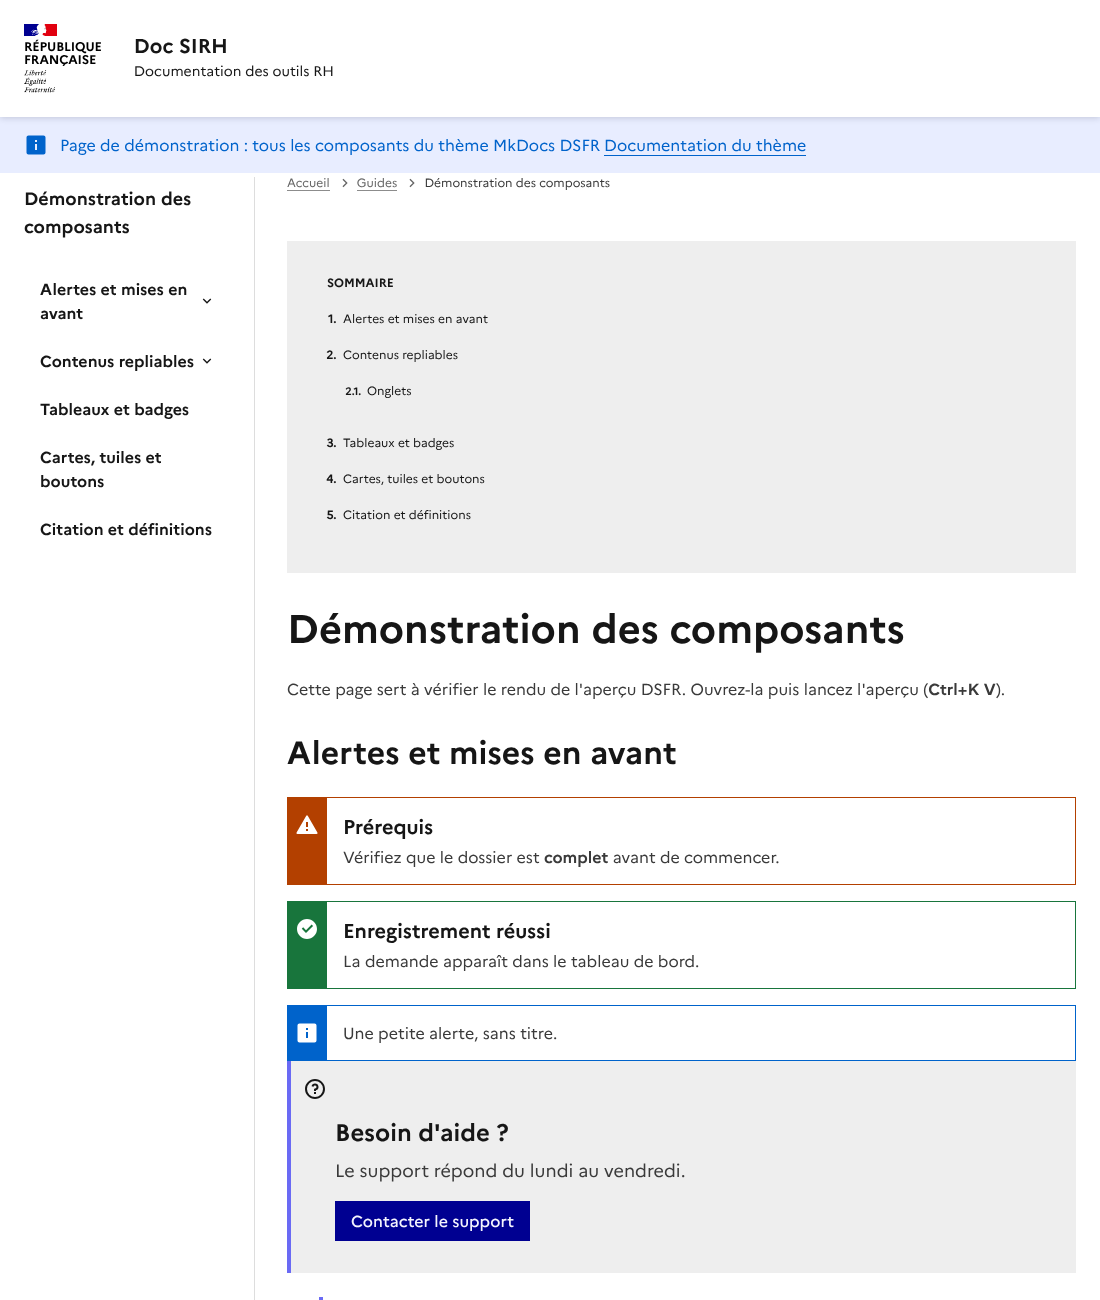
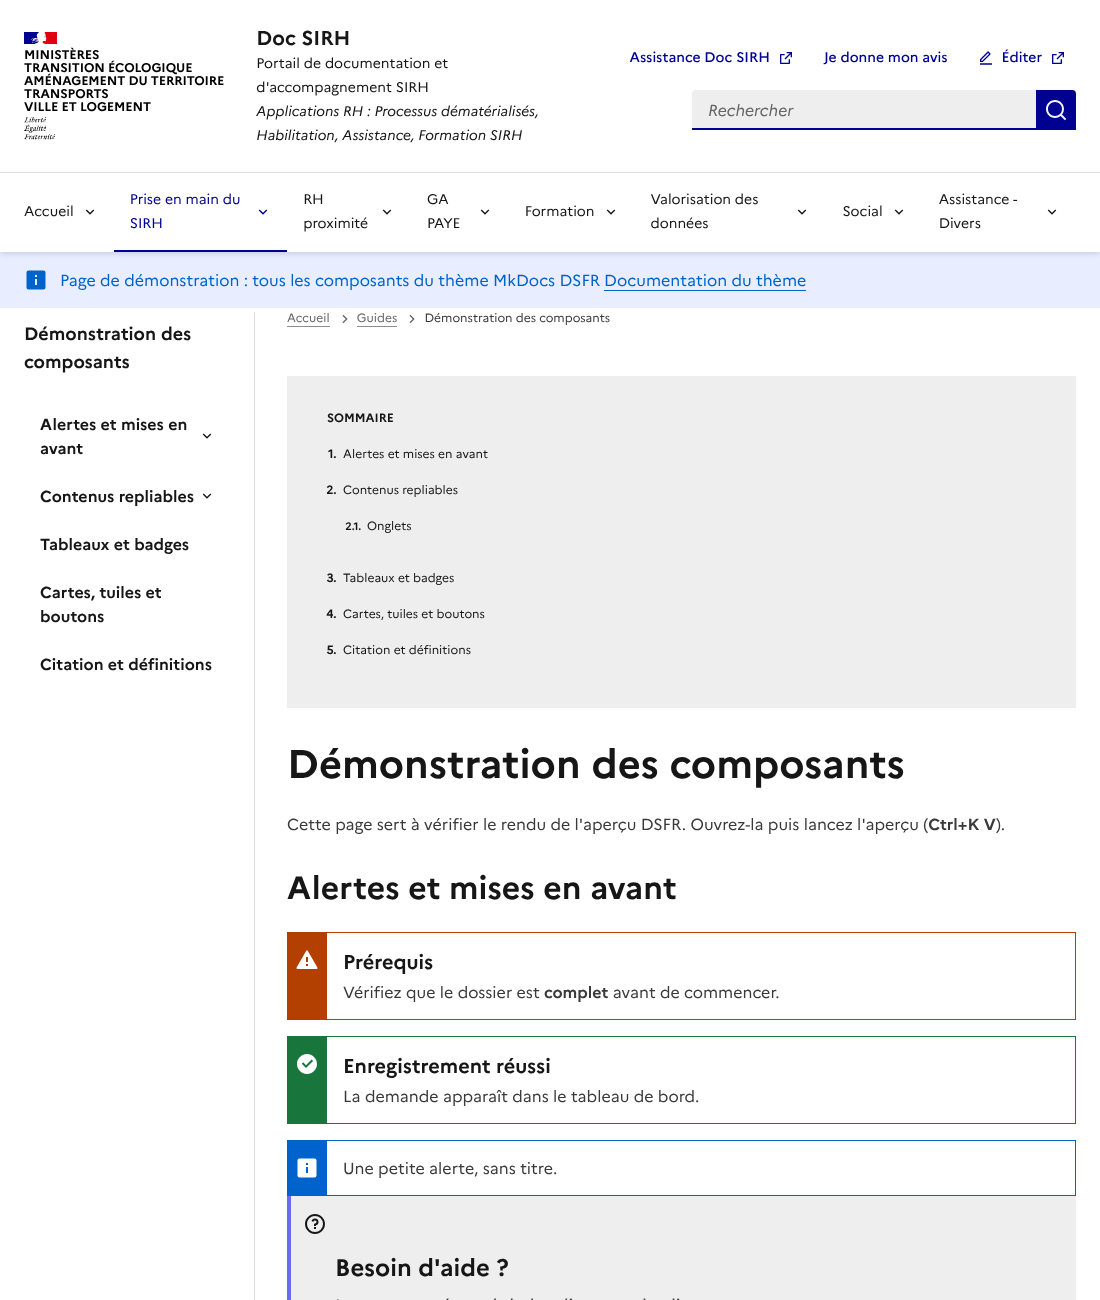
0.10.0 : en-tête, menu et pied de page de Doc SIRH ; fermeture de ligne placée après le bloc
- Sans mkdocs.yml, l'aperçu reprend le cadre réel de Doc SIRH (bloc-marque des ministères, liens,
  recherche, rubriques avec celle de la page en évidence, pied de page)
- Bloc-marque non rogné quand le sous-titre est long
- Correction « ligne de cartes non fermée » : /// ajouté juste après la dernière fermeture (page Estève)

Claude-Session: https://claude.ai/code/session_01LFbTZ262hbqy1z2JrLVRAL

diff --git a/lib/site-frame.js b/lib/site-frame.js
@@ -23,8 +23,11 @@ const { esc } = require('./html');
  * @typedef {object} SiteConfig
  * @property {string} intitule        bloc-marque (« République<br>française ») : seules les balises <br> sont gardées
  * @property {string} titre           titre du site dans l'en-tête
- * @property {string} sousTitre       sous-titre (tagline)
- * @property {{name: string, url: string, icon?: string}[]} headerLinks
+ * @property {string} sousTitre       sous-titre (tagline) : balises <br>, <i> et <em> gardées
+ * @property {{name: string, url: string, icon?: string, external?: boolean}[]} headerLinks
+ * @property {boolean} search         barre de recherche dans l'en-tête
+ * @property {string[]} nav           rubriques du menu principal (sous l'en-tête)
+ * @property {string} path            chemin de la page : la rubrique qui y figure est mise en évidence
  * @property {boolean} editButton     bouton « Éditer » dans l'en-tête
  * @property {string} editLabel
  * @property {boolean} lateral        menu latéral (afficher_menu_lateral, ou « sidemenu: » dans l'en-tête de la page)
@@ -42,6 +45,33 @@ const DEFAULT_FOOTER_LINKS = [
   { name: 'data.gouv.fr', url: 'https://www.data.gouv.fr/' },
 ];
 
+/**
+ * Doc SIRH : en-tête, menu et pied de page du site (relevés sur le site en octobre 2026). Utilisés quand
+ * le mkdocs.yml du site n'est pas dans le dossier ouvert ; bloc-marque, titre et sous-titre restent réglables.
+ */
+const DOC_SIRH = {
+  intitule: 'Ministères<br>Transition écologique<br>Aménagement du territoire<br>Transports<br>Ville et logement',
+  titre: 'Doc SIRH',
+  sousTitre: 'Portail de documentation et d\'accompagnement SIRH<br><i>Applications RH : Processus dématérialisés, Habilitation, Assistance, Formation SIRH</i>',
+  headerLinks: [
+    { name: 'Assistance Doc SIRH', url: '#', external: true },
+    { name: 'Je donne mon avis', url: '#' },
+  ],
+  editButton: true,
+  editLabel: 'Éditer',
+  search: true,
+  nav: ['Accueil', 'Prise en main du SIRH', 'RH proximité', 'GA PAYE', 'Formation', 'Valorisation des données', 'Social', 'Assistance - Divers'],
+  footerDescription: 'Ce site est édité par la Direction des Ressources Humaines',
+  footerLinks: [
+    { name: 'Intranet de la DRH', url: '#' },
+    { name: 'Portail Intranet du CISIRH - RenoiRH', url: '#' },
+  ],
+  bottomLinks: [
+    { name: 'Accessibilité : non conforme', url: '#' }, { name: 'Mentions légales', url: '#' }, { name: 'Favoris', url: '#' },
+    { name: 'Liens utiles', url: '#' }, { name: 'Index du site', url: '#' }, { name: 'Webmestre-DSNUMRH', url: '#' },
+  ],
+};
+
 /** Réglages du thème par défaut (mkdocs_theme.yml), complétés par `overrides`. */
 function siteDefaults(overrides) {
   return Object.assign({
@@ -49,6 +79,9 @@ function siteDefaults(overrides) {
     titre: 'Titre',
     sousTitre: 'Sous-titre',
     headerLinks: [],
+    search: true,
+    nav: [],
+    path: '',
     editButton: true,
     editLabel: 'Éditer dans Gitlab Forge',
     lateral: true,
@@ -62,6 +95,9 @@ function siteDefaults(overrides) {
 
 // Bloc-marque : texte échappé, retours à la ligne <br> conservés (comme dans le mkdocs.yml du thème)
 const brand = (s) => esc(String(s || '')).replace(/&lt;br\s*\/?&gt;/gi, '<br>');
+const tagline = (s) => brand(s).replace(/&lt;(\/?)(i|em)&gt;/gi, '<$1$2>');
+// Rubrique et dossier comparés sans accents, casse ni ponctuation (« RH proximité » = « RH-proximite »)
+const norm = (s) => String(s || '').normalize('NFD').replace(/[\u0300-\u036f]/g, '').toLowerCase().replace(/[^a-z0-9]+/g, '');
 const plain = (html) => html.replace(/<[^>]*>/g, '').replace(/&nbsp;/g, ' ').replace(/&quot;/g, '"').replace(/&#39;/g, '\'')
   .replace(/&lt;/g, '<').replace(/&gt;/g, '>').replace(/&amp;/g, '&').replace(/\s+/g, ' ').trim();
 
@@ -115,22 +151,38 @@ function lateralHtml(headings) {
   return out + '</nav>\n</div>\n';
 }
 
-/** En-tête (header.html), sans la recherche ni le menu de navigation du site. */
+/** Menu principal (nav.html) : rubriques du site, sans leurs sous-menus. */
+function navHtml(site) {
+  const items = site.nav || [];
+  if (!items.length) return '';
+  const folders = String(site.path || '').split(/[\\/]/).map(norm);
+  const active = items.find((t) => norm(t) !== norm('Accueil') && folders.includes(norm(t)));
+  return '<div class="fr-header__menu fr-modal">\n<div class="fr-container">\n<nav class="fr-nav navbar-header" role="navigation" aria-label="Menu principal">\n<ul class="fr-nav__list">\n' +
+    items.map((t) => '<li class="fr-nav__item"><button class="fr-nav__btn" aria-expanded="false"' + (t === active ? ' aria-current="true"' : '') + '>' + esc(t) + '</button></li>\n').join('') +
+    '</ul>\n</nav>\n</div>\n</div>\n';
+}
+
+/** En-tête (header.html) : bloc-marque, titre, liens, recherche et menu principal (sans leurs fenêtres). */
 function headerHtml(site, url) {
-  const links = (site.headerLinks || []).map((l) => '<li><a href="' + esc(url(String(l.url || '#'))) + '" class="fr-btn' + (l.icon ? ' fr-icon-' + esc(l.icon) : '') + '">' + esc(l.name) + '</a></li>\n').join('') +
-    (site.editButton ? '<li><a href="#" class="fr-btn fr-icon-edit-line">' + esc(site.editLabel) + '</a></li>\n' : '');
+  const ext = (l) => (l.external ? ' target="_blank" rel="noopener"' : '');
+  const links = (site.headerLinks || []).map((l) => '<li><a href="' + esc(url(String(l.url || '#'))) + '"' + ext(l) + ' class="fr-btn' + (l.icon ? ' fr-icon-' + esc(l.icon) : '') + '">' + esc(l.name) + '</a></li>\n').join('') +
+    (site.editButton ? '<li><a href="#" target="_blank" rel="noopener" class="fr-btn fr-icon-edit-line">' + esc(site.editLabel) + '</a></li>\n' : '');
+  const search = site.search
+    ? '<div class="fr-header__search fr-modal">\n<div class="fr-container fr-container-lg--fluid">\n<div class="fr-search-bar" role="search">\n' +
+      '<label class="fr-label">Rechercher</label>\n<input class="fr-input" placeholder="Rechercher" type="search">\n<button class="fr-btn" title="Rechercher" type="button">Rechercher</button>\n</div>\n</div>\n</div>\n'
+    : '';
   return '<header role="banner" class="fr-header">\n<div class="fr-header__body">\n<div class="fr-container">\n<div class="fr-header__body-row">\n' +
     '<div class="fr-header__brand fr-enlarge-link">\n<div class="fr-header__brand-top">\n<div class="fr-header__logo">\n<p class="fr-logo">' + brand(site.intitule) + '</p>\n</div>\n' +
     '<div class="fr-header__navbar">\n<button class="fr-btn--search fr-btn" title="Rechercher">Rechercher</button>\n<button class="fr-btn--menu fr-btn" title="Menu">Menu</button>\n</div>\n</div>\n' +
     '<div class="fr-header__service">\n<a href="#" title="Retour à l\'accueil du site - ' + esc(site.titre) + '">\n<p class="fr-header__service-title">' + esc(site.titre) + '</p>\n</a>\n' +
-    '<p class="fr-header__service-tagline">' + esc(site.sousTitre) + '</p>\n</div>\n</div>\n' +
-    '<div class="fr-header__tools">\n<div class="fr-header__tools-links">\n<ul class="fr-btns-group">\n' + links + '</ul>\n</div>\n</div>\n' +
-    '</div>\n</div>\n</div>\n</header>\n';
+    '<p class="fr-header__service-tagline">' + tagline(site.sousTitre) + '</p>\n</div>\n</div>\n' +
+    '<div class="fr-header__tools">\n<div class="fr-header__tools-links">\n<ul class="fr-btns-group">\n' + links + '</ul>\n</div>\n' + search + '</div>\n' +
+    '</div>\n</div>\n</div>\n' + navHtml(site) + '</header>\n';
 }
 
 /** Pied de page (footer.html). */
 function footerHtml(site, url) {
-  const links = (site.footerLinks || []).map((l) => '<li class="fr-footer__content-item"><a class="fr-footer__content-link" target="_blank" href="' + esc(url(String(l.url || '#'))) + '">' + esc(l.name) + '</a></li>\n').join('');
+  const links = (site.footerLinks || []).map((l) => '<li class="fr-footer__content-item"><a class="fr-footer__content-link" target="_blank" rel="noopener" href="' + esc(url(String(l.url || '#'))) + '">' + esc(l.name) + '</a></li>\n').join('');
   const bottom = (site.bottomLinks || []).map((l) => '<li class="fr-footer__bottom-item"><a class="fr-footer__bottom-link' + (l.icon ? ' fr-icon-' + esc(l.icon) : '') + '" href="' + esc(url(String(l.url || '#'))) + '">' + esc(l.name) + '</a></li>\n').join('');
   return '<footer class="fr-footer" role="contentinfo" id="footer">\n<div class="fr-container">\n<div class="fr-footer__body">\n' +
     '<div class="fr-footer__brand fr-enlarge-link">\n<a href="#" title="Retour à l\'accueil du site">\n<p class="fr-logo">' + brand(site.intitule) + '</p>\n</a>\n</div>\n' +
@@ -171,4 +223,4 @@ function framePage(p) {
     (p.parts.newsletter || '') + footerHtml(site, url) + '</div>\n';
 }
 
-module.exports = { framePage, siteDefaults, numberHeadings, lateralHtml, DEFAULT_FOOTER_LINKS };
+module.exports = { framePage, siteDefaults, numberHeadings, lateralHtml, DEFAULT_FOOTER_LINKS, DOC_SIRH };

diff --git a/test/site-frame.js b/test/site-frame.js
@@ -60,6 +60,16 @@ assert.deepStrictEqual(numberHeadings('<h2 id="a">A <em>b</em></h2><h5 class="x"
 });
 assert(framePage({ content: '', parts: { breadcrumb: null }, site: {} }).includes('République <br> française'), 'valeurs par défaut du thème');
 
+// Doc SIRH (réglages par défaut sans mkdocs.yml) : en-tête, menu principal, pied de page du site
+const { DOC_SIRH } = require('../lib/site-frame');
+html = render('# T\n', Object.assign({}, DOC_SIRH, { path: '/wiki/docs/RH-proximite/Esteve.md' }));
+assert(html.includes('Ministères<br>Transition écologique<br>Aménagement du territoire<br>Transports<br>Ville et logement'));
+assert(html.includes('<p class="fr-header__service-tagline">Portail de documentation et d\'accompagnement SIRH<br><i>Applications RH'), 'sous-titre en italique');
+assert(html.includes('target="_blank" rel="noopener" class="fr-btn">Assistance Doc SIRH</a>') && html.includes('fr-icon-edit-line">Éditer</a>'));
+assert(html.includes('class="fr-search-bar"') && html.includes('Ce site est édité par la Direction des Ressources Humaines') && html.includes('Webmestre-DSNUMRH'));
+assert(/aria-current="true">RH proximité</.test(html) && (html.match(/aria-current="true"/g) || []).length === 1, 'rubrique de la page mise en évidence');
+assert(!render('# T\n', Object.assign({}, DOC_SIRH, { path: '/docs/Ailleurs/p.md' })).includes('aria-current="true"'));
+
 // Réglages du thème lus dans le mkdocs.yml
 const cfg = parseConfig([
   'site_name: Doc', 'repo_url: https://gitlab.example/doc', 'theme:', '  name: dsfr', '  intitule: "Ministère <br> du Travail"',

diff --git a/extension.js b/extension.js
@@ -26,6 +26,7 @@ const { checkLinks } = require('./lib/links');
 const mkdocsConfig = require('./lib/mkdocs-config');
 const { checkQuality } = require('./lib/quality');
 const { foldingRanges } = require('./lib/folding');
+const { DOC_SIRH } = require('./lib/site-frame');
 
 const SECTION = 'dsfrPreview';
 let statusItem = null;
@@ -45,9 +46,9 @@ function config() {
     siteUrl: c.get('siteUrl', 'https://docsirh.e2.rie.gouv.fr'),
     pageLayout: c.get('pageLayout', 'site'),
     desktopWidth: c.get('desktopWidth', false),
-    siteBrand: c.get('siteBrand', 'République<br>française'),
-    siteTitle: c.get('siteTitle', 'Doc SIRH'),
-    siteTagline: c.get('siteTagline', ''),
+    siteBrand: c.get('siteBrand', DOC_SIRH.intitule),
+    siteTitle: c.get('siteTitle', DOC_SIRH.titre),
+    siteTagline: c.get('siteTagline', DOC_SIRH.sousTitre),
   };
 }
 
@@ -241,11 +242,9 @@ function siteFrameFor(env) {
     const site = siteConfig(file, folder ? folder.uri.fsPath : null);
     theme = site && site.theme ? site.theme : null;
   }
-  return Object.assign(
-    { intitule: c.siteBrand, titre: c.siteTitle, sousTitre: c.siteTagline, editButton: !theme },
-    theme || {},
-    { desktop: !!c.desktopWidth }
-  );
+  // Sans mkdocs.yml : en-tête, menu et pied de page de Doc SIRH (bloc-marque, titre et sous-titre réglables)
+  const base = theme ? {} : Object.assign({}, DOC_SIRH, { intitule: c.siteBrand, titre: c.siteTitle, sousTitre: c.siteTagline });
+  return Object.assign(base, theme || {}, { desktop: !!c.desktopWidth, path: file || '' });
 }
 
 const isInside = (file, dir) => {

diff --git a/lib/lint.js b/lib/lint.js
@@ -190,7 +190,10 @@ function locate(raw, lines) {
       const indent = (lines[raw.line] || '').match(/^\s*/)[0];
       // Bloc du même nom placé dedans : fermer juste avant lui (seule correction juste)
       if (raw.sibling !== null && raw.sibling !== undefined) {
-        issue.fixes.push({ title: 'Fermer le bloc par « ' + fence + ' » juste avant la ligne ' + (raw.sibling + 1), preferred: true, edits: [insertAt(raw.sibling, 0, indent + fence + '\n')] });
+        // Juste après la dernière ligne du bloc (avant les lignes vides qui le séparent du suivant)
+        let at = raw.sibling;
+        while (at - 1 > raw.line && !(lines[at - 1] || '').trim()) at--;
+        issue.fixes.push({ title: 'Fermer le bloc par « ' + fence + ' » juste avant la ligne ' + (raw.sibling + 1), preferred: true, edits: [insertAt(at, 0, indent + fence + '\n')] });
         break;
       }
       const last = lines.length - 1;

diff --git a/test/lint.js b/test/lint.js
@@ -125,6 +125,11 @@ assert.strictEqual(issue.code, 'dsfr-unclosed');
 assert(issue.message.includes('le « /// row » de la ligne 5 se retrouve imbriqué dedans'), issue.message);
 assert.deepStrictEqual(issue.fixes.map((f) => f.title), ['Fermer le bloc par « /// » juste avant la ligne 5']);
 clean(fixed(src, issue));
+// Cas réel (page Estève) : ligne vide entre les deux lignes de cartes ; « /// » ajouté après la dernière fermeture
+src = '/// row\n/// col\nA\n/// \n\n/// row\n/// col\nB\n///\n///\n';
+issue = only(src);
+assert.strictEqual(fixed(src, issue), '/// row\n/// col\nA\n/// \n///\n\n/// row\n/// col\nB\n///\n///\n');
+clean(fixed(src, issue));
 // Même nom plus profond (dans une colonne) : imbrication normale, pas de cette indication
 issue = only('/// row\n/// col\n/// row\n/// col\nB\n///\n///\n///\n');
 assert(!issue.message.includes('imbriqué dedans'), issue.message);

diff --git a/lib/mkdocs-config.js b/lib/mkdocs-config.js
@@ -81,6 +81,9 @@ function themeSettings(data) {
     footerLinks: links(footer.links),
     bottomLinks: links(footer.bottom_links),
     backtop: t.bouton_hautdepage !== undefined ? String(t.bouton_hautdepage || '') : undefined,
+    search: typeof t.include_search_page === 'boolean' ? t.include_search_page : undefined,
+    // Rubriques du menu principal : titres de premier niveau de « nav: »
+    nav: Array.isArray(data.nav) ? data.nav.map((item) => (item && typeof item === 'object' ? Object.keys(item)[0] : null)).filter(Boolean).map(String) : undefined,
   };
   for (const k of Object.keys(out)) if (out[k] === undefined) delete out[k];
   return out;

diff --git a/media/dsfr-preview.css b/media/dsfr-preview.css
@@ -143,3 +143,8 @@ body.dsfr-preview .dsfr-site #contenu > :first-child {
 body.dsfr-preview .dsfr-site[data-desktop="true"] {
   width: 1280px;
 }
+/* Bloc-marque sur plusieurs lignes (ministères) : il garde toute sa largeur, comme sur le site,
+   au lieu d'être rogné quand le sous-titre est long */
+body.dsfr-preview .dsfr-site .fr-header__brand-top {
+  flex-shrink: 0;
+}

diff --git a/scripts/captures.py b/scripts/captures.py
@@ -21,7 +21,8 @@ const createMd = require('./test/vscode-like.js');
 const fs = require('fs');
 const file = process.argv[1];
 // Mise en page « comme le site » (réglage par défaut de l'extension)
-const site = () => ({ titre: 'Doc SIRH', sousTitre: 'Documentation des outils RH', editButton: false });
+const { DOC_SIRH } = require('./lib/site-frame');
+const site = () => Object.assign({}, DOC_SIRH, { path: 'docs/Prise-en-main-du-SIRH/demo.md' });
 process.stdout.write(createMd({ showErrors: () => true, site }).render(fs.readFileSync(file, 'utf8'), {}));
 """
 

diff --git a/README.md b/README.md
@@ -40,8 +40,10 @@ Extension créée par **Bastien** ([@bastienR17](https://github.com/bastienR17))
 - **Interactif** : accordéons, onglets, fil d'Ariane et sommaire cliquables (un lien vers une ancre placée
   dans un accordéon fermé l'ouvre, comme sur le site) ; thème clair ou sombre aligné sur VS Code.
 - **La page comme sur le site** : en-tête (bloc-marque, titre du site), menu latéral avec le sommaire de la
-  page, colonne de contenu et pied de page, d'après les gabarits du thème. Les textes de l'en-tête sont lus dans
-  le `mkdocs.yml` du site. En option, la page s'affiche à la largeur d'un ordinateur, réduite pour tenir dans
+  page, colonne de contenu et pied de page, d'après les gabarits du thème. Les textes de l'en-tête, du menu et du
+  pied de page sont lus dans le `mkdocs.yml` du site ; sans lui, ce sont ceux de Doc SIRH (bloc-marque des
+  ministères, liens « Assistance Doc SIRH » et « Je donne mon avis », rubriques du menu, la rubrique de la page
+  étant mise en évidence). En option, la page s'affiche à la largeur d'un ordinateur, réduite pour tenir dans
   l'aperçu : les cartes passent à la ligne au même endroit que sur le site.
 - **Les blocs `///` colorés et repliables dans l'éditeur** : nom du bloc, titre, options et fermeture en couleur ;
   une flèche dans la marge replie un bloc (onglets, accordéon, grille…) jusqu'à son `///`.
@@ -258,7 +260,7 @@ le mieux est de corriger aussi ce script pour qu'il mette les valeurs entre guil
 | `dsfrPreview.openMode` | `side`, `window` | `side` | Où s'ouvre l'aperçu : à côté du Markdown ou dans une fenêtre séparée |
 | `dsfrPreview.pageLayout` | `site`, `content` | `site` | Page entière comme sur le site (en-tête, menu latéral, pied de page), ou contenu seul |
 | `dsfrPreview.desktopWidth` | `true`, `false` | `false` | Page à la largeur d'un ordinateur (1280 px), réduite pour tenir dans l'aperçu |
-| `dsfrPreview.siteBrand`, `siteTitle`, `siteTagline` | texte | `République<br>française`, `Doc SIRH`, vide | Bloc-marque, titre et sous-titre de l'en-tête, si le `mkdocs.yml` du site n'est pas trouvé |
+| `dsfrPreview.siteBrand`, `siteTitle`, `siteTagline` | texte | ceux de Doc SIRH | Bloc-marque, titre et sous-titre de l'en-tête, si le `mkdocs.yml` du site n'est pas trouvé |
 
 ## Limites connues
 

diff --git a/CHANGELOG.md b/CHANGELOG.md
@@ -7,14 +7,20 @@ Format inspiré de [Keep a Changelog](https://keepachangelog.com/fr/1.1.0/).
 ### Ajouts
 - **L'aperçu montre la page comme sur le site** : en-tête (bloc-marque, titre et sous-titre du site),
   bandeau, **menu latéral** avec le sommaire de la page (cliquable), colonne de contenu et pied de page,
-  d'après les gabarits du thème mkdocs-dsfr 0.27. Les textes de l'en-tête et du pied de page sont lus dans le
-  `mkdocs.yml` du site, sinon dans les réglages `dsfrPreview.siteBrand`, `siteTitle` et `siteTagline`.
+  d'après les gabarits du thème mkdocs-dsfr 0.27. Les textes de l'en-tête, du menu et du pied de page sont lus
+  dans le `mkdocs.yml` du site ; sans lui, ce sont ceux de **Doc SIRH** (bloc-marque des ministères, titre et
+  sous-titre, liens de l'en-tête, barre de recherche, rubriques du menu avec celle de la page mise en évidence,
+  pied de page). Bloc-marque, titre et sous-titre se changent dans `dsfrPreview.siteBrand`, `siteTitle`, `siteTagline`.
   Le réglage `dsfrPreview.pageLayout` = `content` revient à l'affichage du contenu seul.
 - Réglage `dsfrPreview.desktopWidth` : la page s'affiche à la largeur d'un ordinateur (1280 px), réduite pour
   tenir dans l'aperçu ; les cartes, tuiles et colonnes passent à la ligne comme sur le site.
 - **Couleurs dans l'éditeur** : les en-têtes `/// nom | titre`, les options (clé et valeur) et les fermetures
   `///` sont colorés selon le thème de VS Code. Rien n'est coloré dans les blocs de code.
 - **Repli des blocs** : une flèche dans la marge replie un bloc `///` (onglets, accordéon, grille…) jusqu'à sa fermeture.
+
+### Modifications
+- Ligne de cartes non fermée avant la suivante : le `///` ajouté par l'ampoule se place juste après la dernière
+  fermeture du bloc, avant la ligne vide (cas réel de la page Estève).
 
 ## 0.9.9 — octobre 2026
 
